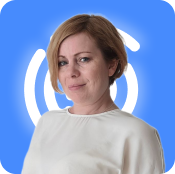
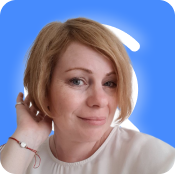
new peoples in command

diff --git a/src/components/Command.tsx b/src/components/Command.tsx
@@ -12,6 +12,10 @@ import avatar_11 from "../images/avatar_11.png";
 import avatar_12 from "../images/avatar_12.png";
 import avatar_14 from "../images/avatar_14.png";
 import avatar_15 from "../images/avatar_15.png";
+import avatar_16 from "../images/avatar_16.png";
+import avatar_17 from "../images/avatar_17.png";
+import avatar_18 from "../images/avatar_18.png";
+import avatar_19 from "../images/avatar_19.png";
 
 const COMMANDS = [
   {
@@ -104,6 +108,34 @@ const COMMANDS = [
     img: avatar_15,
     description:
       'Мастер языка смыслов в текстах. Пишет как дышит. Глаголом жжет и сердца, и умы людей. Тонко чувствует разницу между "жечь", "зажигать" и "выжигать". Выжиганию нет, огню идей - да.',
+  },
+  {
+    name: "Вячеслав Кончаковский",
+    position: "Хозяин процессов",
+    img: avatar_16,
+    description:
+      'Держит ниточки всех невидимых процессов в своих руках, видит картину целиком и не допускает лобового столкновения задач.',
+  },
+  {
+    name: "Светлана Губскова",
+    position: "Financier",
+    img: avatar_17,
+    description:
+      'Разрабатывает тактику  и стратегию распределения средств, анализирует эффективность затрат, планирует результаты, распределяет потоки, контролирует прибыль и активы.',
+  },
+  {
+    name: "Светлана Бабина",
+    position: "Бизнес  ассистент",
+    img: avatar_18,
+    description:
+      'Оптимизирует время фаундера. Организовывает тренинги, договаривается о встречах, налаживает коммуникацию с партнерами.',
+  },
+  {
+    name: "Дархан Калматай",
+    position: "Videomaker",
+    img: avatar_19,
+    description:
+      'Казахский парень, который предпочитает понты. Снимает видео для души и с душой. Если посмотреть в глаза, то можете увидеть прекрасное.',
   },
 ];
 
